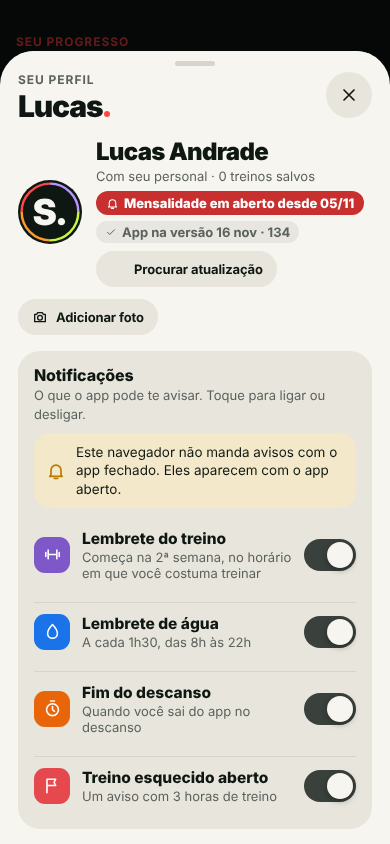
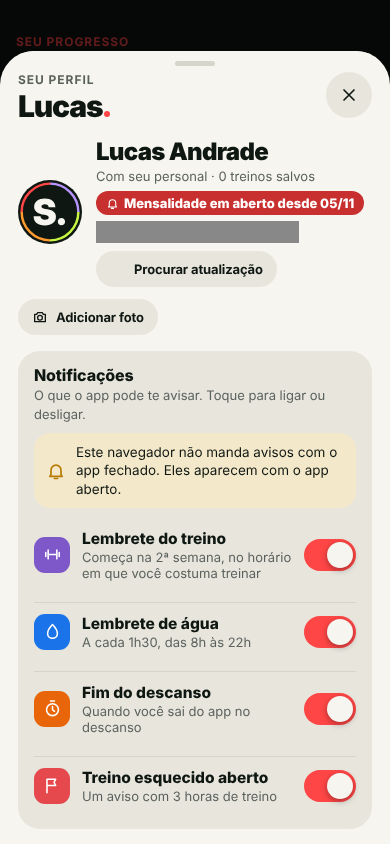
App: no modo escuro, as chaves ligadas de Perfil › Notificações aparecem ligadas (achado pelas fotos do robô); robô compara as fotos com folga menor (versão 16 nov · 136)
Claude-Session: https://claude.ai/code/session_01HfZwp46Dr7mBJZgYWx7x8R

diff --git a/site/treino/index.html b/site/treino/index.html
@@ -1625,7 +1625,7 @@ body.has-dock .toast,body.has-dock .utoast{bottom:calc(176px + env(safe-area-ins
 .nta .nt-row{display:flex;align-items:center;gap:12px;padding:11px 0;border-top:1px solid var(--sep)}.nta .nt-ban+.nt-row,.nta .btn+.nt-row,.nta .nt-sub+.nt-row{border-top:0}
 .nta .nt-row>div{flex:1;min-width:0}.nta .nt-row b{display:block;font-size:15.5px;font-weight:800}.nta .nt-row span.s{display:block;font-size:13px;color:var(--muted);margin-top:1px}
 .nta .nt-sub{margin:10px 0 0;font-size:12px;font-weight:800;text-transform:uppercase;letter-spacing:.06em;color:var(--muted);border-top:1px solid var(--sep);padding-top:12px}
-.nta .switch .knob{background:#CFCEC6}:root[data-theme="dark"] .nta .switch .knob{background:#3A413C}.nta .switch input:checked+.knob{background:var(--brand)}
+.nta .switch .knob{background:#CFCEC6}:root[data-theme="dark"] .nta .switch .knob{background:#3A413C}.nta .switch input:checked+.knob,:root[data-theme="dark"] .nta .switch input:checked+.knob{background:var(--brand)}
 .mt-aq{background:var(--card);border-radius:16px;padding:10px 12px;display:flex;flex-direction:column;gap:10px}
 .mt-aqh{display:flex;align-items:center;gap:10px}.mt-aqh>div{flex:1;min-width:0;display:flex;flex-direction:column;gap:1px}.mt-aqh b{font-size:14.5px;font-weight:800}.mt-aqh>div>span{font-size:12.5px;color:var(--muted);line-height:1.3}
 .mt-aqi{width:30px;height:30px;border-radius:10px;display:grid;place-items:center;flex:none;background:color-mix(in srgb,#FF7A1A 16%,transparent);color:#E8650A}.mt-aqi .i{width:17px;height:17px}
@@ -1787,7 +1787,7 @@ const vibrate = p => { try { if(navigator.userActivation && !navigator.userActiv
 
 /* ---------- estado ---------- */
 const KEY = 'simplificando-pro-v2';
-const APPV = '16 nov · 135'; // muda a cada zip: confira no perfil se o site está com a versão nova
+const APPV = '16 nov · 136'; // muda a cada zip: confira no perfil se o site está com a versão nova
 function fresh(example){
   return { v:2, example:!!example, nome:'', ed:'hipertrofia', waterGoal:3000, cardioGoal:120, water:{}, wlog:{}, remind:{on:true,every:90},
     history:[], cardio:[], logs:{}, warm:{}, last:{}, loadHist:{}, pr:{}, checkin:{}, session:null };

diff --git a/src/treino-grade.html b/src/treino-grade.html
@@ -1595,7 +1595,7 @@ body.has-dock .toast,body.has-dock .utoast{bottom:calc(176px + env(safe-area-ins
 .nta .nt-row{display:flex;align-items:center;gap:12px;padding:11px 0;border-top:1px solid var(--sep)}.nta .nt-ban+.nt-row,.nta .btn+.nt-row,.nta .nt-sub+.nt-row{border-top:0}
 .nta .nt-row>div{flex:1;min-width:0}.nta .nt-row b{display:block;font-size:15.5px;font-weight:800}.nta .nt-row span.s{display:block;font-size:13px;color:var(--muted);margin-top:1px}
 .nta .nt-sub{margin:10px 0 0;font-size:12px;font-weight:800;text-transform:uppercase;letter-spacing:.06em;color:var(--muted);border-top:1px solid var(--sep);padding-top:12px}
-.nta .switch .knob{background:#CFCEC6}:root[data-theme="dark"] .nta .switch .knob{background:#3A413C}.nta .switch input:checked+.knob{background:var(--brand)}
+.nta .switch .knob{background:#CFCEC6}:root[data-theme="dark"] .nta .switch .knob{background:#3A413C}.nta .switch input:checked+.knob,:root[data-theme="dark"] .nta .switch input:checked+.knob{background:var(--brand)}
 .mt-aq{background:var(--card);border-radius:16px;padding:10px 12px;display:flex;flex-direction:column;gap:10px}
 .mt-aqh{display:flex;align-items:center;gap:10px}.mt-aqh>div{flex:1;min-width:0;display:flex;flex-direction:column;gap:1px}.mt-aqh b{font-size:14.5px;font-weight:800}.mt-aqh>div>span{font-size:12.5px;color:var(--muted);line-height:1.3}
 .mt-aqi{width:30px;height:30px;border-radius:10px;display:grid;place-items:center;flex:none;background:color-mix(in srgb,#FF7A1A 16%,transparent);color:#E8650A}.mt-aqi .i{width:17px;height:17px}
@@ -1757,7 +1757,7 @@ const vibrate = p => { try { if(navigator.userActivation && !navigator.userActiv
 
 /* ---------- estado ---------- */
 const KEY = 'simplificando-pro-v2';
-const APPV = '16 nov · 135'; // muda a cada zip: confira no perfil se o site está com a versão nova
+const APPV = '16 nov · 136'; // muda a cada zip: confira no perfil se o site está com a versão nova
 function fresh(example){
   return { v:2, example:!!example, nome:'', ed:'hipertrofia', waterGoal:3000, cardioGoal:120, water:{}, wlog:{}, remind:{on:true,every:90},
     history:[], cardio:[], logs:{}, warm:{}, last:{}, loadHist:{}, pr:{}, checkin:{}, session:null };

diff --git a/site/treino/sw.js b/site/treino/sw.js
@@ -2,7 +2,7 @@
    - A página: tenta a internet primeiro (pega a versão nova); se a internet falhar ou demorar, abre a cópia guardada.
    - Arquivos fixos (Firebase, ícones, fontes): usa a cópia guardada e atualiza por trás.
    - Banco de dados, login e e-mails não passam por aqui: o próprio Firebase cuida de reenviar quando o sinal volta. */
-const VERSAO = '16 nov · 135'; // muda a cada versão (o build grava): assim o celular sempre percebe que tem sw.js novo
+const VERSAO = '16 nov · 136'; // muda a cada versão (o build grava): assim o celular sempre percebe que tem sw.js novo
 const CACHE = 'simp-treino-v4';
 let ATUALIZANDO = false; // true quando já tinha uma versão instalada (atualização, não primeira vez)
 const CORE = ['./', './manifest.webmanifest', './icon-192.png', './icon-512.png', './icon-180.png', './firebase-config.js',

diff --git a/testes/visual.spec.js b/testes/visual.spec.js
@@ -8,7 +8,7 @@ const TEMAS = ['light', 'dark'];
 // as partes que se mexem (animações, relógios) ficam cobertas; as mensagens rápidas (toasts) ficam escondidas
 async function tira(page, nome) {
   await page.addStyleTag({ content: '.toast,.utoast,#fx{display:none!important}' });
-  await expect(page).toHaveScreenshot(nome + '.png', { mask: [page.locator('canvas, .lay-anim, .anim, [data-tick]')], maskColor: '#888888' });
+  await expect(page).toHaveScreenshot(nome + '.png', { mask: [page.locator('canvas, .lay-anim, .anim, [data-tick], .ver-pill, .app-ver')], maskColor: '#888888' });
 }
 
 for (const [ap, ua] of APARELHOS) for (const tema of TEMAS) {

diff --git a/produto/painel-personal-teste.html b/produto/painel-personal-teste.html
@@ -3341,7 +3341,7 @@ function ctCard(a){
 /* ---------- Perfis: todas as contas do app, com e sem personal ---------- */
 const DONO_NOME = 'Eduardo Matias Marques';
 /* ---------- atualizar o site com um toque (site/atualizar.php baixa a versão nova do GitHub) ---------- */
-const PAINELV = '16 nov · 135'; // Versão do painel: 16 nov · 135
+const PAINELV = '16 nov · 136'; // Versão do painel: 16 nov · 136
 const ATU = { st:'', nova:'', msg:'' };
 function atuCheck(){
   if(ATU.st) return; ATU.st = 'vendo';

diff --git a/site/personal/index.html b/site/personal/index.html
@@ -3231,7 +3231,7 @@ function ctCard(a){
 /* ---------- Perfis: todas as contas do app, com e sem personal ---------- */
 const DONO_NOME = 'Eduardo Matias Marques';
 /* ---------- atualizar o site com um toque (site/atualizar.php baixa a versão nova do GitHub) ---------- */
-const PAINELV = '16 nov · 135'; // Versão do painel: 16 nov · 135
+const PAINELV = '16 nov · 136'; // Versão do painel: 16 nov · 136
 const ATU = { st:'', nova:'', msg:'' };
 function atuCheck(){
   if(ATU.st) return; ATU.st = 'vendo';

diff --git a/site/personal/teste/index.html b/site/personal/teste/index.html
@@ -3345,7 +3345,7 @@ function ctCard(a){
 /* ---------- Perfis: todas as contas do app, com e sem personal ---------- */
 const DONO_NOME = 'Eduardo Matias Marques';
 /* ---------- atualizar o site com um toque (site/atualizar.php baixa a versão nova do GitHub) ---------- */
-const PAINELV = '16 nov · 135'; // Versão do painel: 16 nov · 135
+const PAINELV = '16 nov · 136'; // Versão do painel: 16 nov · 136
 const ATU = { st:'', nova:'', msg:'' };
 function atuCheck(){
   if(ATU.st) return; ATU.st = 'vendo';

diff --git a/src/admin.html b/src/admin.html
@@ -3201,7 +3201,7 @@ function ctCard(a){
 /* ---------- Perfis: todas as contas do app, com e sem personal ---------- */
 const DONO_NOME = 'Eduardo Matias Marques';
 /* ---------- atualizar o site com um toque (site/atualizar.php baixa a versão nova do GitHub) ---------- */
-const PAINELV = '16 nov · 135'; // Versão do painel: 16 nov · 135
+const PAINELV = '16 nov · 136'; // Versão do painel: 16 nov · 136
 const ATU = { st:'', nova:'', msg:'' };
 function atuCheck(){
   if(ATU.st) return; ATU.st = 'vendo';

diff --git a/testes/playwright.config.js b/testes/playwright.config.js
@@ -8,7 +8,7 @@ module.exports = defineConfig({
   testMatch: '*.spec.js',
   outputDir: 'resultados',
   timeout: 60000,
-  expect: { timeout: 10000, toHaveScreenshot: { maxDiffPixelRatio: 0.02, animations: 'disabled', caret: 'hide' } },
+  expect: { timeout: 10000, toHaveScreenshot: { maxDiffPixelRatio: 0.003, animations: 'disabled', caret: 'hide' } },
   fullyParallel: true,
   workers: CI ? 3 : 4,
   retries: CI ? 1 : 0,
